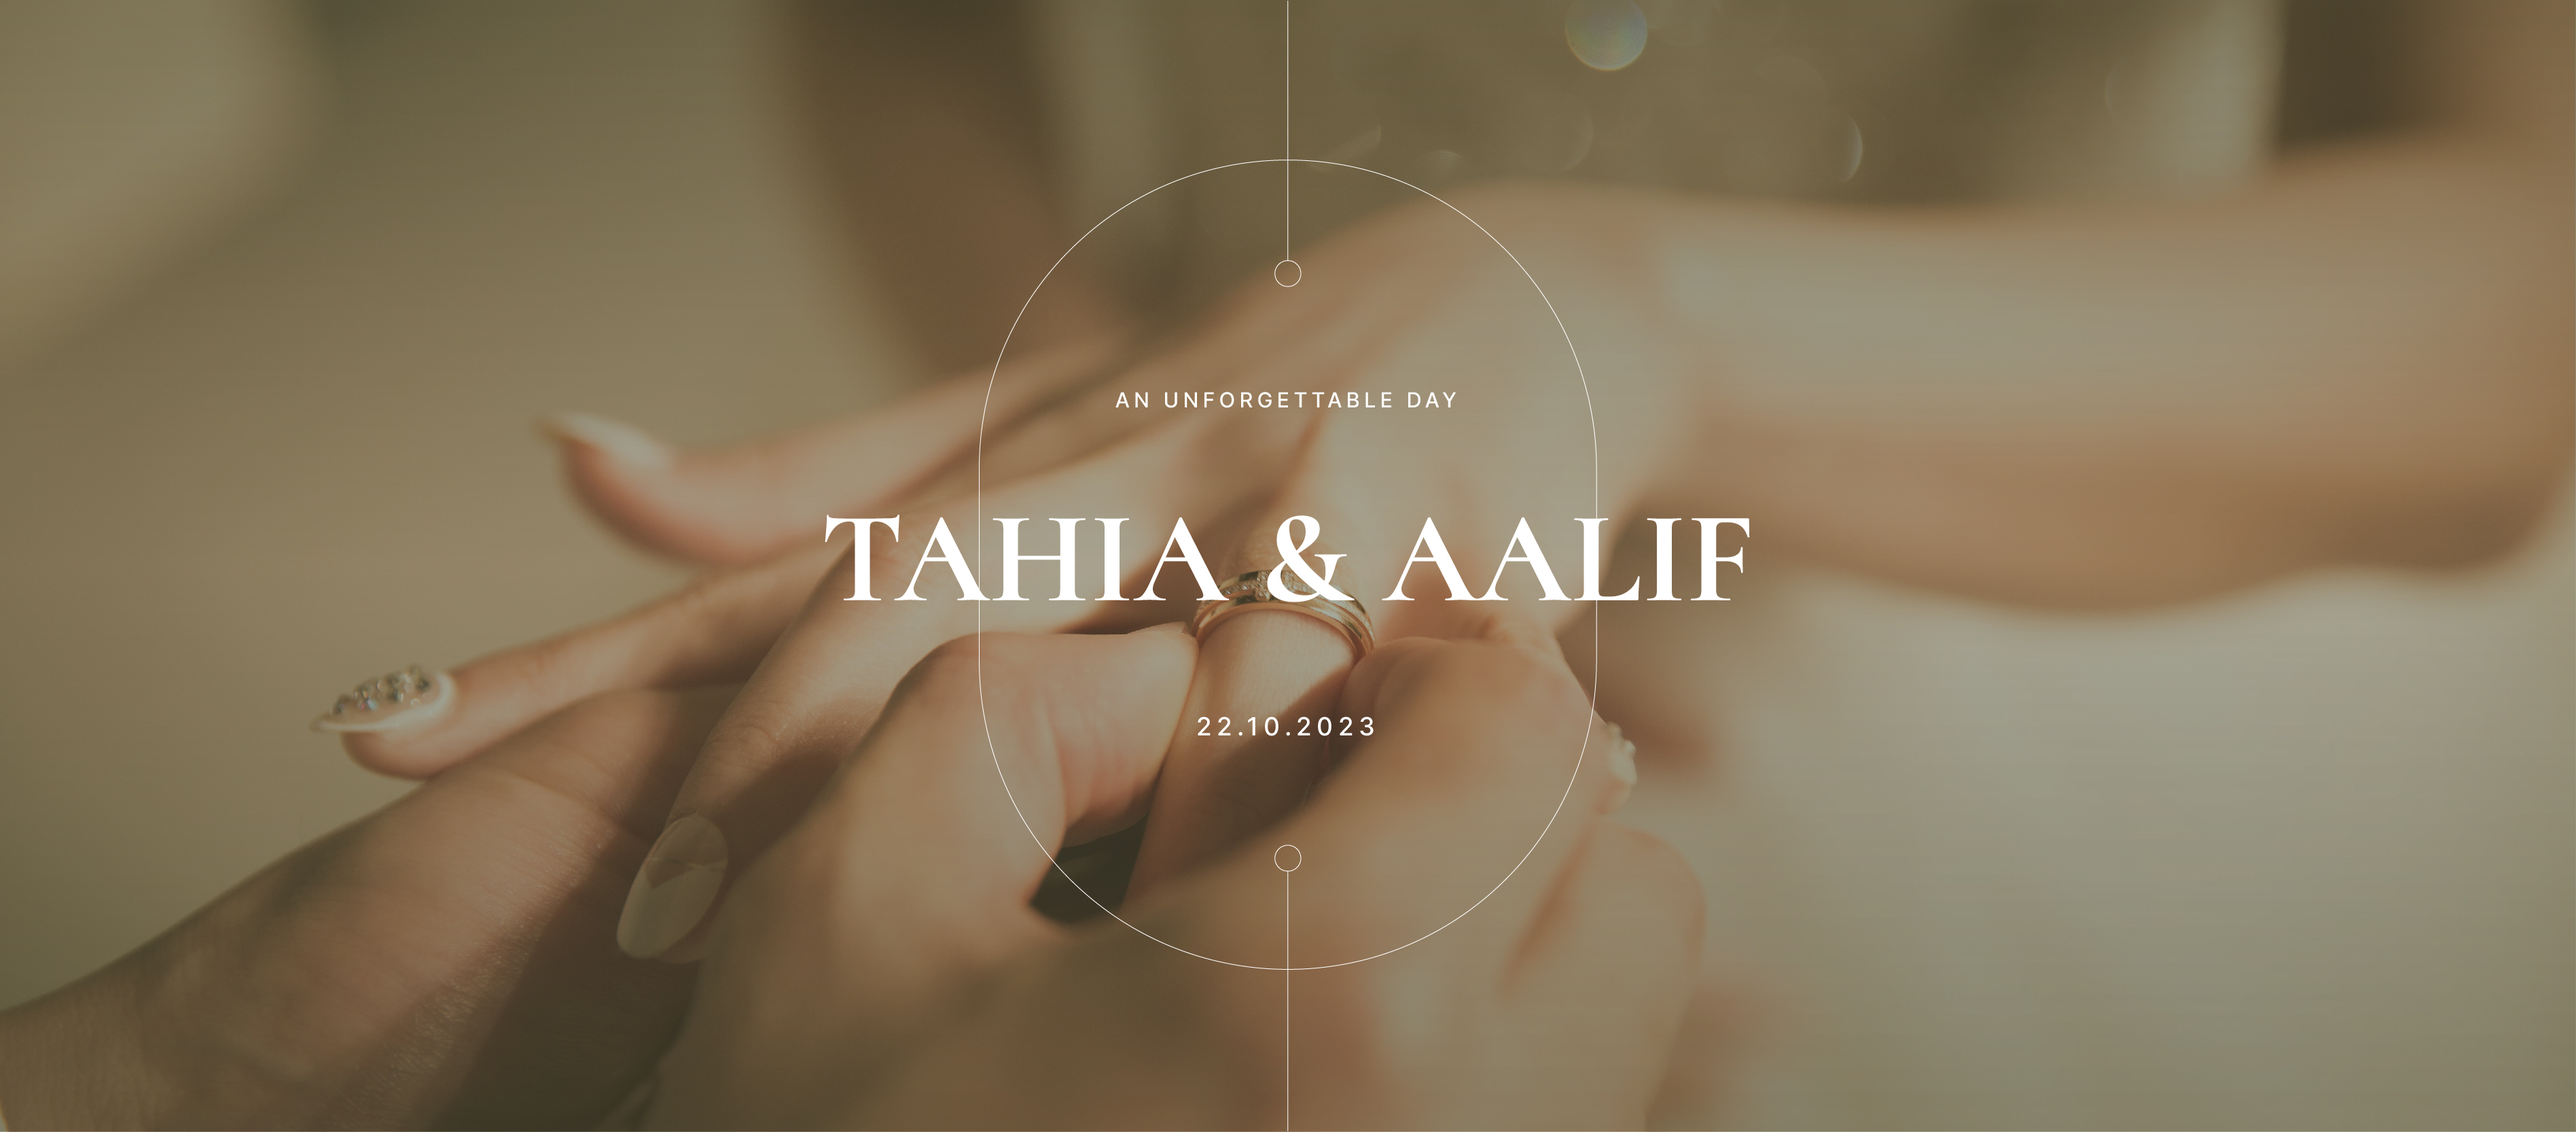
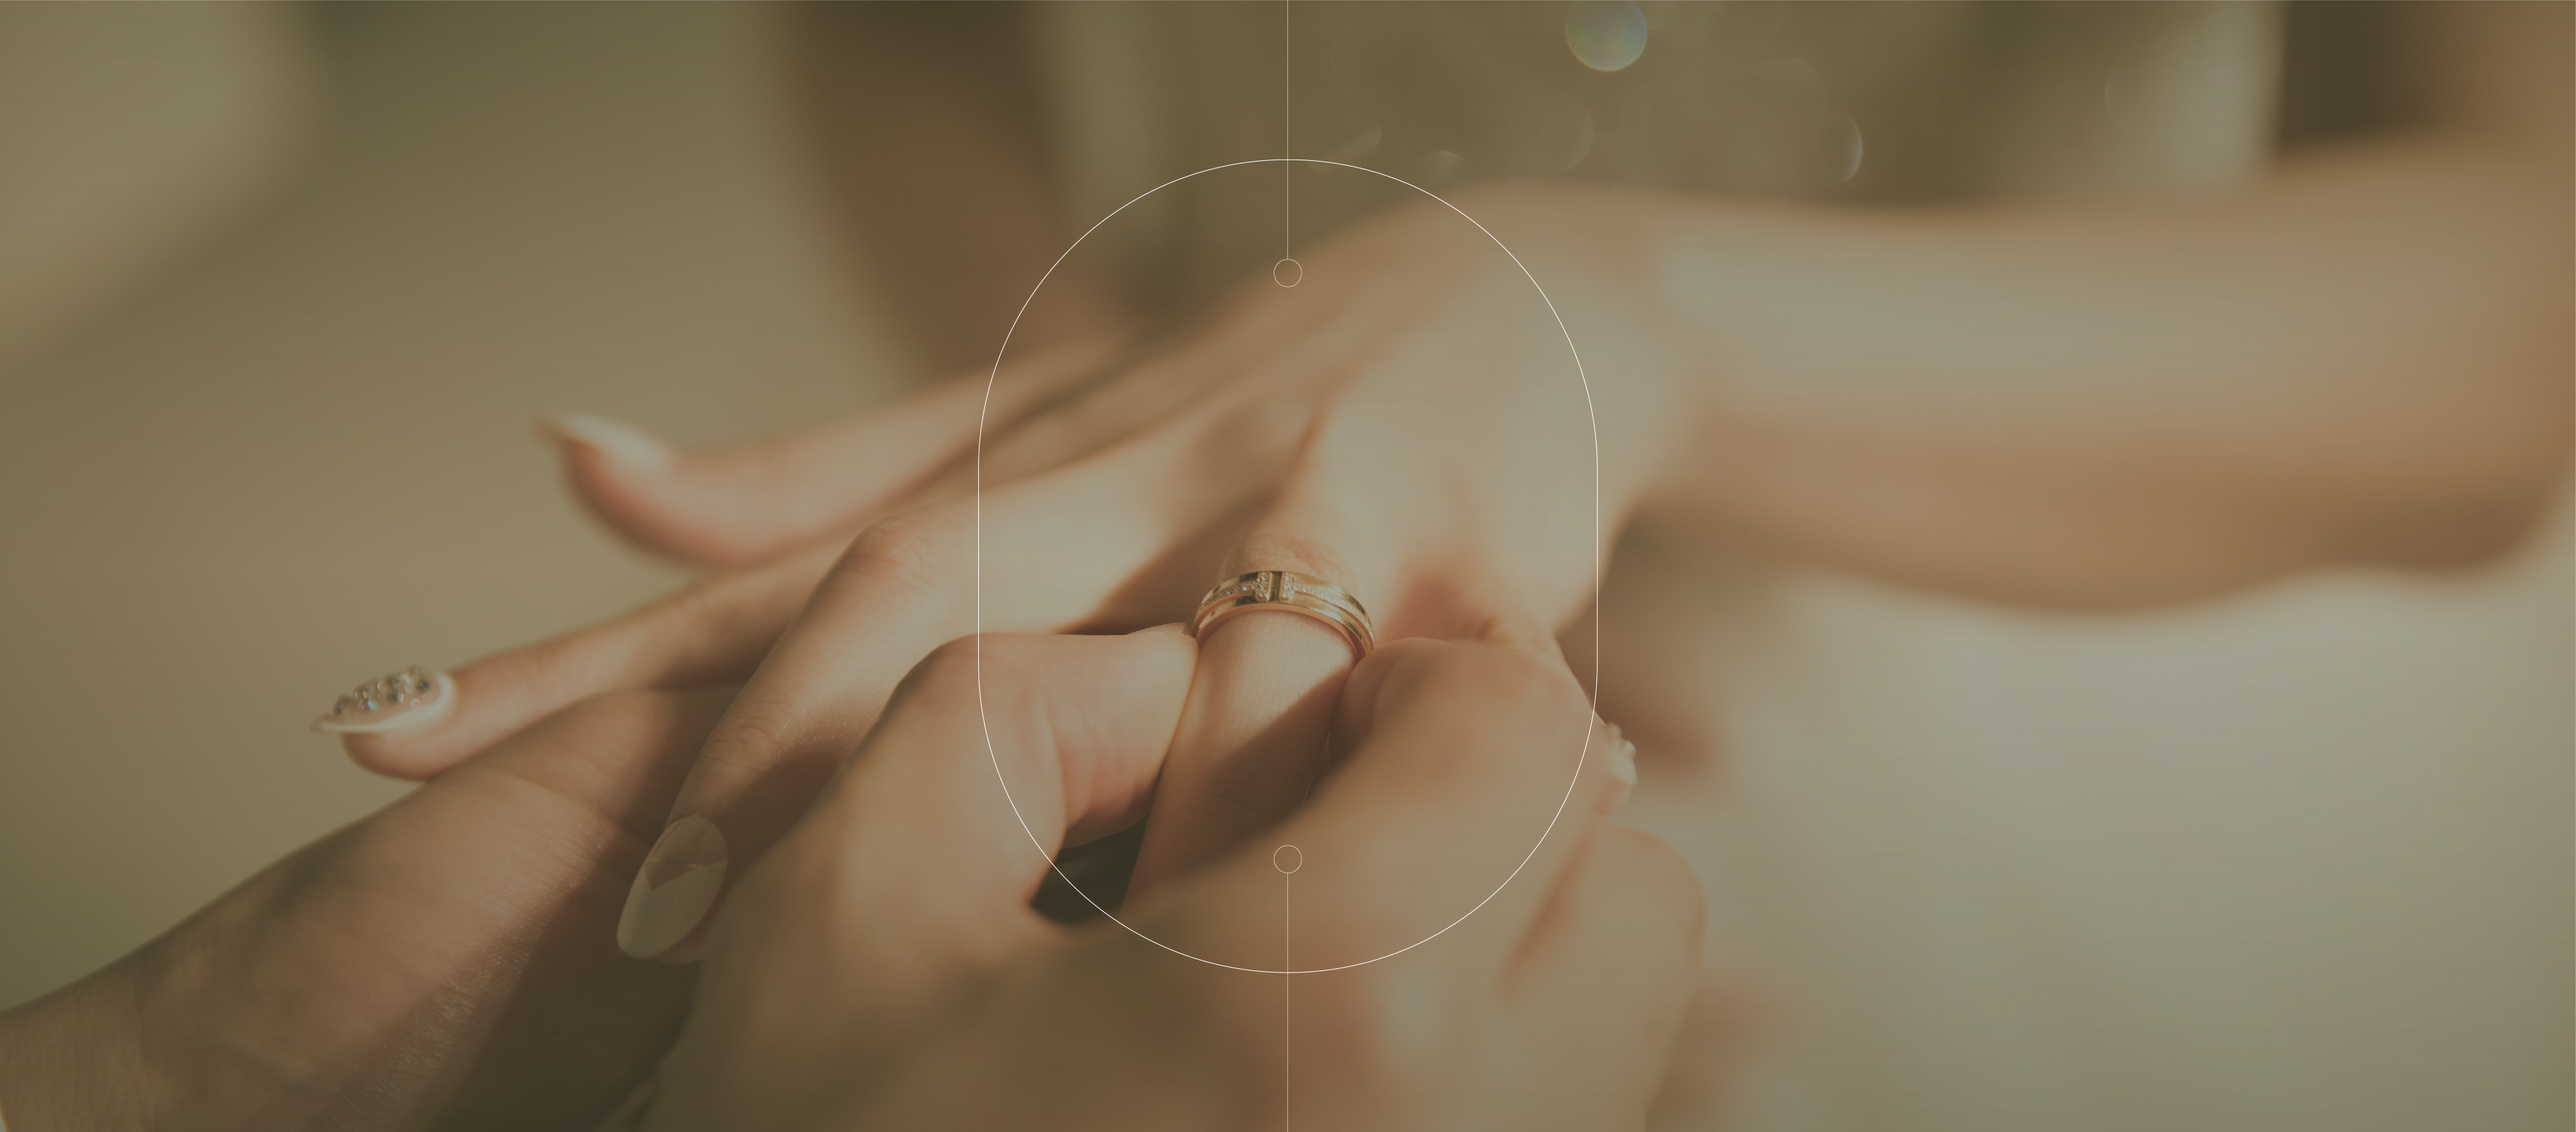
welcome page complete (draft-1)

diff --git a/src/components/Timeline.js b/src/components/Timeline.js
@@ -5,7 +5,7 @@ import { Link } from 'react-router-dom'
 
 export default function Timeline() {
     return (
-        <div className='px-3 px-md-5 mx-md-4 mt-5 pt-5'>
+        <div className='px-3 px-md-5 mx-md-4  mt-2 mt-md-5 pt-3 pt-md-5'>
             <div className="row d-flex mx-1 align-items-center">
                 <div className="col-3 col-md-4 me-auto" style={{ height: ".1px", backgroundColor: '#000', opacity: '.2' }}></div>
                 <div className="col-auto me-auto">
@@ -15,9 +15,9 @@ export default function Timeline() {
             </div>
 
             {/* SANGEET */}
-            <div className="row flex-lg-row-reverse align-items-center g-5 py-5 mt-3">
+            <div className="row flex-lg-row-reverse align-items-center g-5 py-3 py-md-5 mt-0 mt-md-3" >
                 <div className="col-12 col-sm-8 col-lg-6">
-                    <img src={img1} className="d-block mx-lg-auto img-fluid" alt="Bootstrap Themes" loading="lazy" />
+                    <img src={img1} className="d-block mx-lg-auto img-fluid" alt="Bootstrap Themes" loading="lazy" data-aos='fade-left'/>
                 </div>
                 <div className="col-lg-6 me-auto">
                     <h4 className="fw-bold lh-1 mb-3 d-flex align-items-center gap-2"><iconify-icon icon="ic:outline-date-range"></iconify-icon> 21st October, 2023</h4>
@@ -32,17 +32,18 @@ export default function Timeline() {
                             </div>
                         </div>
                     </div>
-                    <p className="lead col-lg-11" style={{ textAlign: 'justify' }}>Among the many pre-wedding events that occur prior to the wedding ceremonies, the Sangeet is where the party begins. The word Sangeet translates to ‘sung together’ from Sanskrit. ‘Gaun’, another word used to describe the event, means ‘songs’ or ‘to sing’ in Hindi. Traditionally celebrated in India, this ceremony has been adopted by many other regions as a form of celebration for the wedding to come. The event is formally known to comprise of only female attendees from both sides of the family, however modern times allow for men to join in on the fun too. Unlike religious ceremonies such as the Haldi or portions of the wedding ceremony, the Sangeet is solely conducted to relish in the happiness and joy surrounding the couple.</p>
-                    <div className="d-grid gap-2 d-md-flex justify-content-md-start mt-4">
+                    <p className="lead col-lg-11"  data-aos='fade-right' style={{ textAlign: 'justify' }}>Among the many pre-wedding events that occur prior to the wedding ceremonies, the Sangeet is where the party begins. The word Sangeet translates to ‘sung together’ from Sanskrit. ‘Gaun’, another word used to describe the event, means ‘songs’ or ‘to sing’ in Hindi. Traditionally celebrated in India, this ceremony has been adopted by many other regions as a form of celebration for the wedding to come. The event is formally known to comprise of only female attendees from both sides of the family, however modern times allow for men to join in on the fun too. Unlike religious ceremonies such as the Haldi or portions of the wedding ceremony, the Sangeet is solely conducted to relish in the happiness and joy surrounding the couple.</p>
+                    <div className="d-grid gap-2 d-md-flex justify-content-md-start mt-4" data-aos='fade-right'>
                         <button type="button" className="btn primary-btn btn-lg px-4 me-md-2 col-12 col-md-3">EXPLORE MORE</button>
                     </div>
                 </div>
             </div>
             <hr></hr>
+
             {/* RECEPTION */}
             <div className="row flex-lg-row-reverse align-items-center g-5 py-5">
                 <div className="col-12 col-sm-8 col-lg-6">
-                    <img src={img2} className="d-block mx-lg-auto img-fluid" alt="Bootstrap Themes" loading="lazy" />
+                    <img src={img2} className="d-block mx-lg-auto img-fluid" alt="Bootstrap Themes" loading="lazy" data-aos='fade-left' />
                 </div>
                 <div className="col-lg-6 me-auto">
                     <h4 className="fw-bold lh-1 mb-3 d-flex align-items-center gap-2"><iconify-icon icon="ic:outline-date-range"></iconify-icon> 22nd October, 2023</h4>
@@ -58,8 +59,8 @@ export default function Timeline() {
                         </div>
                     </div>
 
-                    <p className="lead col-lg-11" style={{ textAlign: 'justify' }}>A wedding reception is a party usually held after the completion of a marriage ceremony as hospitality for those who have attended the wedding, hence the name reception: the couple receive society, in the form of family and friends, for the first time as a married couple. Hosts provide their choice of food and drink, although a wedding cake is popular.<br></br>Entertaining guests after a wedding ceremony is traditional in most societies, and can last anywhere from half an hour to many hours or even days. Most wedding receptions are made in the evening for dinner; however, the couple may opt for a luncheon, brunch, or even afternoon tea.[1] Ultimately the married couple chooses the details and location of the reception.</p>
-                    <div className="d-grid gap-2 d-md-flex justify-content-md-start mt-4">
+                    <p className="lead col-lg-11" data-aos='fade-right' style={{ textAlign: 'justify' }}>A wedding reception is a party usually held after the completion of a marriage ceremony as hospitality for those who have attended the wedding, hence the name reception: the couple receive society, in the form of family and friends, for the first time as a married couple. Hosts provide their choice of food and drink, although a wedding cake is popular.<br></br>Entertaining guests after a wedding ceremony is traditional in most societies, and can last anywhere from half an hour to many hours or even days. Most wedding receptions are made in the evening for dinner; however, the couple may opt for a luncheon, brunch, or even afternoon tea.[1] Ultimately the married couple chooses the details and location of the reception.</p>
+                    <div className="d-grid gap-2 d-md-flex justify-content-md-start mt-4" >
                         <button type="button" className="btn primary-btn btn-lg px-4 me-md-2 col-12 col-md-3">EXPLORE MORE</button>
                     </div>
                 </div>

diff --git a/src/components/Story.js b/src/components/Story.js
@@ -1,9 +1,12 @@
-import React from 'react'
+import React, { useEffect } from 'react'
 import img from '../story-bg.jpg'
+import { AnimationOnScroll } from 'react-animation-on-scroll';
+import Aos from 'aos';
 
 export default function Story() {
+        Aos.init()
     return (
-        <div className='px-3 px-md-5 mx-md-4 my-5 py-5'>
+        <div className='px-3 px-md-5 mx-md-4 my-3 my-md-5 py-5'>
             <div className="row d-flex mx-1 align-items-center">
                 <div className="col-3 col-md-4 me-auto" style={{ height: ".1px", backgroundColor: '#000', opacity: '.2' }}></div>
                 <div className="col-auto me-auto">
@@ -11,11 +14,11 @@ export default function Story() {
                 </div>
                 <div className="col-3 col-md-4" style={{ height: ".1px", backgroundColor: '#000', opacity: '.2' }}></div>
             </div>
-            <div className="row flex-lg-row align-items-center g-5 py-5 my-2">
-                <div className="col-12 col-sm-8 col-lg-6">
+            <div className="row flex-lg-row align-items-center g-5 py-3 py-md-5 my-0 my-md-2" data-aos='fade-up'>
+                <div className="col-12 col-sm-8 col-lg-6" data-aos='fade-up'>
                     <img src={img} className="d-block mx-lg-auto img-fluid" alt="Bootstrap Themes" loading="lazy"/>
                 </div>
-                <div className="col-lg-6">
+                <div className="col-lg-6" data-aos='fade-up'>
                     <h1 className="display-5 fw-bold lh-1 mb-3">Responsive left-aligned hero with image</h1>
                     <p className="lead" style={{textAlign:'justify'}}>Lorem ipsum dolor sit amet, consectetur adipiscing elit, sed do eiusmod tempor incididunt ut labore et dolore magna aliqua. Ut enim ad minim veniam, quis nostrud exercitation ullamco laboris nisi ut aliquip ex ea commodo consequat. Duis aute irure dolor in reprehenderit in voluptate velit esse cillum dolore eu fugiat nulla pariatur. Excepteur sint occaecat cupidatat non proident, sunt in culpa qui officia deserunt mollit anim id est laborum. Lorem ipsum dolor sit amet, consectetur adipiscing elit, sed do eiusmod tempor incididunt ut labore et dolore magna consequat. Duis aute irure dolor in reprehenderit in voluptate velit esse cillum </p>
                 </div>

diff --git a/src/components/Navbar.js b/src/components/Navbar.js
@@ -16,13 +16,13 @@ export default function Navbar() {
                                 <a className="nav-link py-2 p-md-0 active" aria-current="page" href="#">WELCOME</a>
                             </li>
                             <li className="nav-item px-md-4">
-                                <a className="nav-link py-2 p-md-0" href="#">OUR STORY</a>
+                                <a className="nav-link p-md-0" href="#">OUR STORY</a>
                             </li>
                             <li className="nav-item px-md-4">
                                 <a className="nav-link py-2 p-md-0" href="#">TIMELINE</a>
                             </li>
                             <li className="nav-item px-md-4 py-0">
-                                <a className="nav-link py-2 p-md-0" href="#">VENUE</a>
+                                <a className="nav-link py-2 p-md-0" href="#">VENUES</a>
                             </li>
                             <li className="nav-item px-md-4 py-0">
                                 <a className="nav-link py-2 p-md-0" href="#">EXPLORE</a>

diff --git a/src/components/ScrollTop.js b/src/components/ScrollTop.js
@@ -1,11 +1,13 @@
 import React from 'react'
 
 export default function ScrollTop() {
-    let srcollToTop=()=>document.documentElement.scrollTop=0;
+    let srcollToTop = () => document.documentElement.scrollTop = 0;
     return (
-        <div className='row d-flex align-items-center justify-content-center mt-5 py-4'>
-            <p className="lead text-center">TAHIA & AALIF'S WEDDING</p>
-            <button className="btn secondary-btn col-5 col-md-1" onClick={srcollToTop}>Back to top</button>
+        <div>
+            <div className='row d-flex align-items-center justify-content-center mt-5 py-4'>
+                <p className="lead text-center">TAHIA & AALIF'S WEDDING</p>
+                <button className="btn secondary-btn col-5 col-md-1" onClick={srcollToTop}>Back to top</button>
+            </div>
         </div>
     )
 }

diff --git a/src/components/Main.js b/src/components/Main.js
@@ -1,9 +1,14 @@
 import React from 'react'
-
 export default function Main() {
   return (
     <div className='px-3 px-md-5 mx-md-4'>
-     <div className="container-fluid hero-img"></div> 
+      <div className="container-fluid hero-img text-center text-white d-flex align-items-center justify-content-center">
+        <div>
+          <small className='sub-head' style={{ fontFamily: "'Inter', sans-serif", letterSpacing: '3px' }}>AN UNFORGETTABLE DAY</small>
+          <h1 className="display-1 py-4 py-md-5 my-md-3 name" style={{ fontWeight: '600' }}>TAHIA & AALIF</h1>
+          <p className='sub-head' style={{ fontFamily: "'Inter', sans-serif", letterSpacing: '3px' }}>22.10.2023</p>
+        </div>
+      </div>
     </div>
   )
 }

diff --git a/src/App.css b/src/App.css
@@ -3,8 +3,8 @@
 body{
   background-color: #E7EAE4;
   font-family: 'Cormorant', serif;
-  /* padding-left: 80px;
-  padding-right: 80px; */
+  scroll-behavior: smooth;
+  overflow-x: hidden;
   
 }
 ::-webkit-scrollbar{
@@ -59,6 +59,35 @@ body{
   background-image: url('../src/home-bg-01.jpg');
   background-size: cover;
   background-position: center;
+}
+.name{
+  animation: scale 2.5s ease;
+}
+
+.sub-head{
+  animation: fadeIn 5s ease;
+}
+@keyframes scale {
+  0%{
+    transform: scale(0);
+    opacity: 0;
+  }
+  52%{
+    transform:scale(1.18);
+    opacity: .75;
+  }
+  100%{
+    transform:scale(1);
+    opacity: 1;
+  }
+}
+@keyframes fadeIn {
+  from{
+    opacity: 0;
+  }
+  to{
+    opacity: 1;
+  }
 }
 
 

diff --git a/public/index.html b/public/index.html
@@ -15,6 +15,7 @@
 
     <!-- Bootstrap CSS -->
     <link href="https://cdn.jsdelivr.net/npm/bootstrap@5.3.0-alpha1/dist/css/bootstrap.min.css" rel="stylesheet" integrity="sha384-GLhlTQ8iRABdZLl6O3oVMWSktQOp6b7In1Zl3/Jr59b6EGGoI1aFkw7cmDA6j6gD" crossorigin="anonymous">
+    <link href="https://unpkg.com/aos@2.3.1/dist/aos.css" rel="stylesheet">
 
     <title>TA's Wedding</title>
   </head>
@@ -27,6 +28,7 @@
 
     <!-- Iconify Icons -->
     <script src="https://code.iconify.design/iconify-icon/1.0.5/iconify-icon.min.js"></script>
+    <script src="https://unpkg.com/aos@2.3.1/dist/aos.js"></script>
     
   </body>
 </html>
